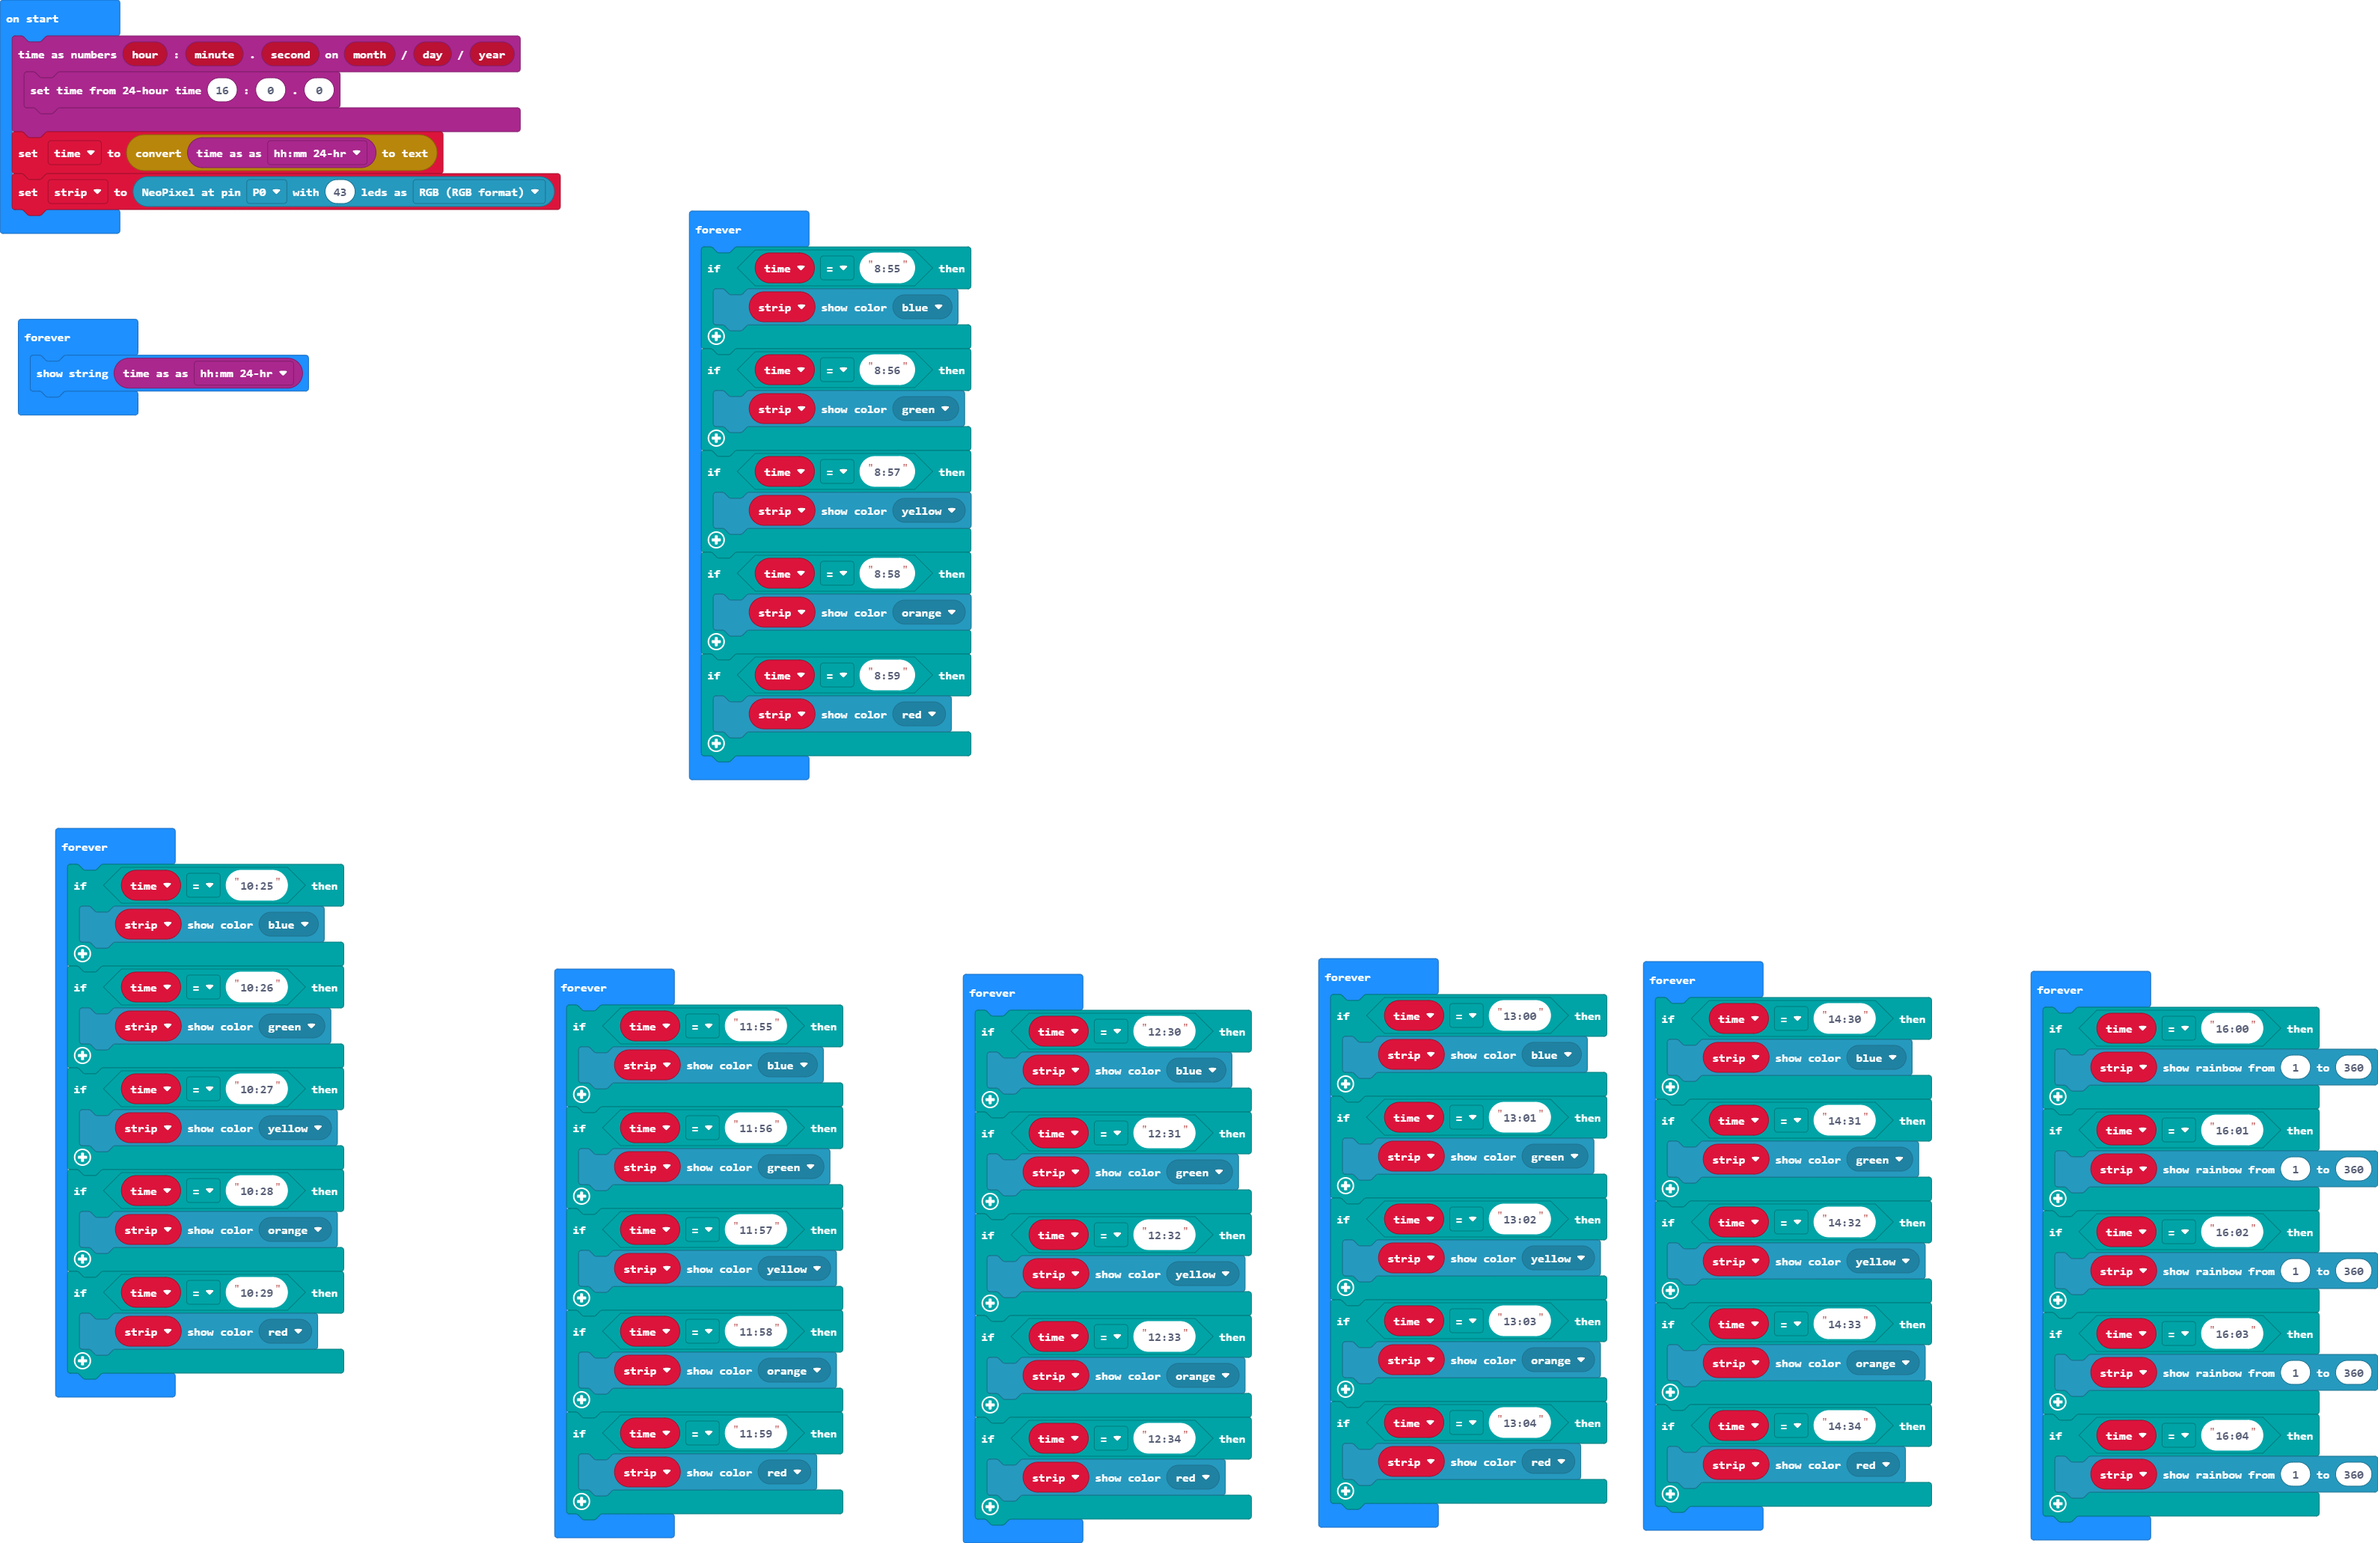
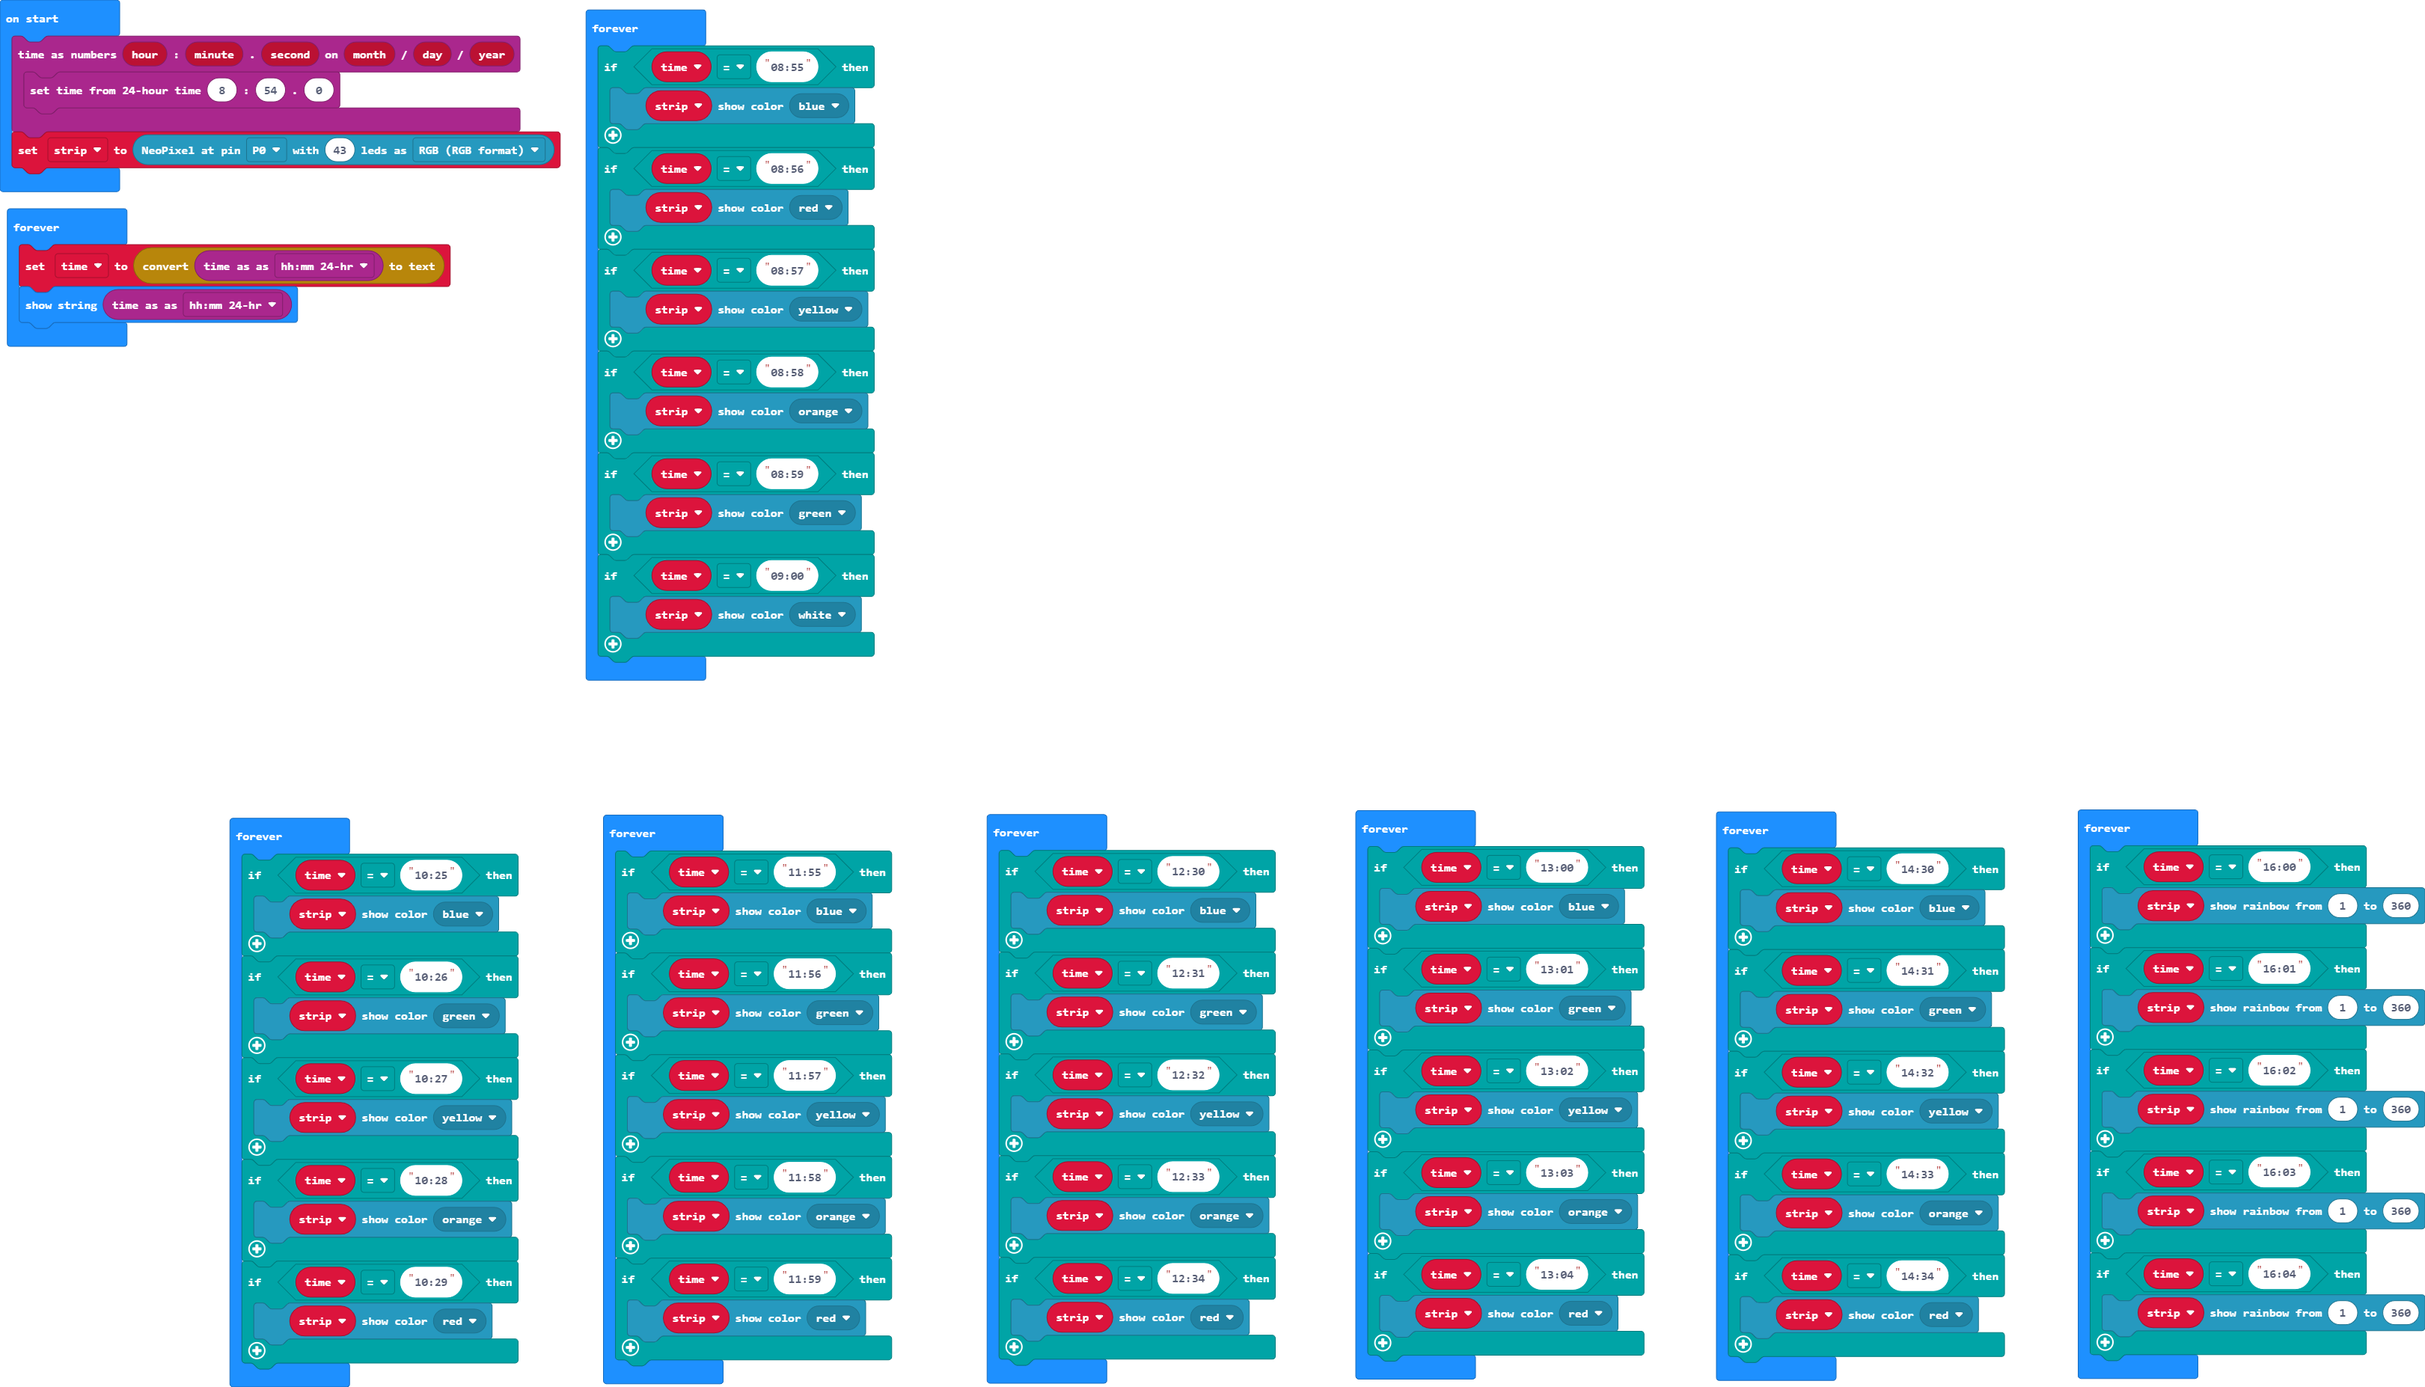
Set time to convert to text forever

diff --git a/main.ts b/main.ts
@@ -1,26 +1,30 @@
+let time = ""
 timeanddate.numericTime(function (hour, minute, second, month, day, year) {
-    timeanddate.set24HourTime(16, 0, 0)
+    timeanddate.set24HourTime(8, 54, 0)
 })
-let time = convertToText(timeanddate.time(timeanddate.TimeFormat.HHMM24hr))
 let strip = neopixel.create(DigitalPin.P0, 43, NeoPixelMode.RGB_RGB)
 basic.forever(function () {
-    if (time == "8:55") {
+    if (time == "08:55") {
         strip.showColor(neopixel.colors(NeoPixelColors.Blue))
     }
-    if (time == "8:56") {
-        strip.showColor(neopixel.colors(NeoPixelColors.Green))
+    if (time == "08:56") {
+        strip.showColor(neopixel.colors(NeoPixelColors.Red))
     }
-    if (time == "8:57") {
+    if (time == "08:57") {
         strip.showColor(neopixel.colors(NeoPixelColors.Yellow))
     }
-    if (time == "8:58") {
+    if (time == "08:58") {
         strip.showColor(neopixel.colors(NeoPixelColors.Orange))
     }
-    if (time == "8:59") {
-        strip.showColor(neopixel.colors(NeoPixelColors.Red))
+    if (time == "08:59") {
+        strip.showColor(neopixel.colors(NeoPixelColors.Green))
+    }
+    if (time == "09:00") {
+        strip.showColor(neopixel.colors(NeoPixelColors.White))
     }
 })
 basic.forever(function () {
+    time = convertToText(timeanddate.time(timeanddate.TimeFormat.HHMM24hr))
     basic.showString(timeanddate.time(timeanddate.TimeFormat.HHMM24hr))
 })
 basic.forever(function () {
